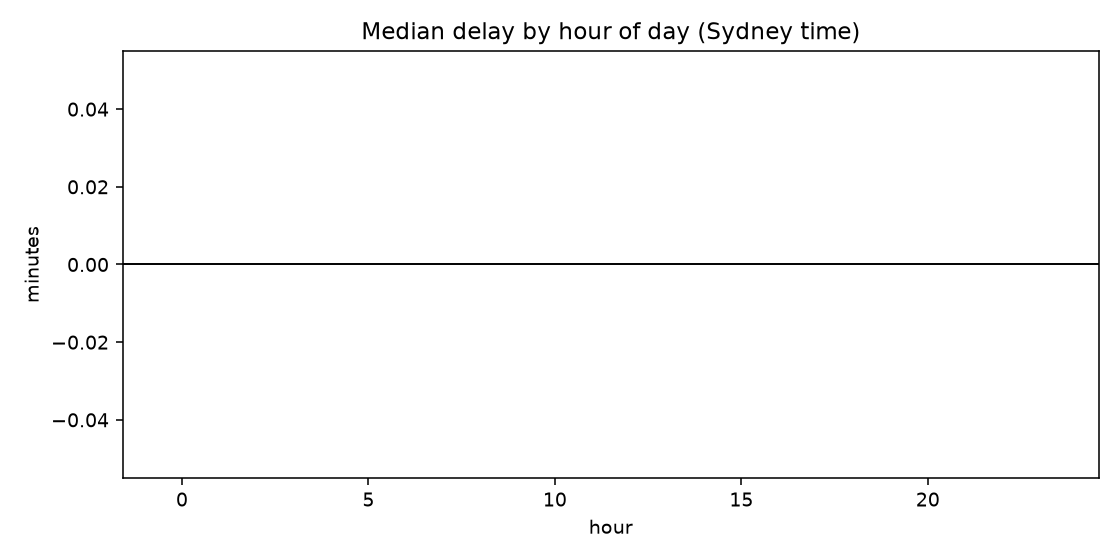
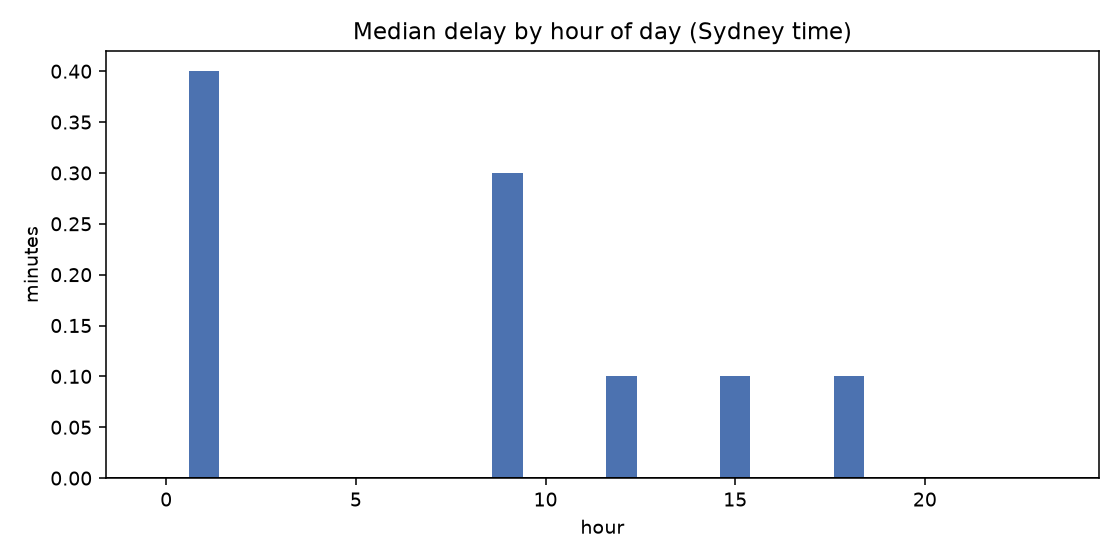
Report the Phase 0 finding by mode

diff --git a/collector/src/nextstop_collector/report.py b/collector/src/nextstop_collector/report.py
@@ -28,6 +28,12 @@ from .timeutil import SYDNEY  # noqa: E402
 
 LATE_THRESHOLD_SECONDS = 120
 
+# Charts only. A long thin tail of very late services widens the x-axis until everything
+# real is compressed into one bar. Excluded from the plots, counted in the text, never
+# silently dropped. The y-axis is logarithmic for the same reason: on a linear axis the
+# on-time bar is so tall that the late tail — the entire point — is invisible.
+CHART_LIMIT_MINUTES = 20
+
 
 def load_samples() -> pd.DataFrame:
     with session_scope() as session:
@@ -90,25 +96,63 @@ def latest_view(frame: pd.DataFrame) -> pd.DataFrame:
 
 def _plot_delay(frame: pd.DataFrame, path: Path) -> bool:
     usable = frame.dropna(subset=["api_delay_min"])
+    usable = usable[usable.api_delay_min.abs() <= CHART_LIMIT_MINUTES]
     if usable.empty:
         return False
 
     has_gap = usable.naive_gap_min.notna().any()
     fig, axes = plt.subplots(1, 2 if has_gap else 1, figsize=(11 if has_gap else 6, 4), squeeze=False)
 
-    axes[0][0].hist(usable.api_delay_min, bins=40, color="#4C72B0")
+    bins = range(-CHART_LIMIT_MINUTES, CHART_LIMIT_MINUTES + 1)
+    axes[0][0].hist(usable.api_delay_min, bins=bins, color="#4C72B0")
     axes[0][0].set_title("Realtime minus planned (Trip Planner)")
     axes[0][0].set_xlabel("minutes late")
-    axes[0][0].set_ylabel("departures")
+    axes[0][0].set_ylabel("departures (log scale)")
+    axes[0][0].set_yscale("log")
     axes[0][0].axvline(0, color="black", linewidth=1, linestyle="--")
 
     if has_gap:
-        axes[0][1].hist(usable.naive_gap_min.dropna(), bins=40, color="#DD8452")
+        axes[0][1].hist(usable.naive_gap_min.dropna(), bins=bins, color="#DD8452")
         axes[0][1].set_title("Realtime minus published timetable")
         axes[0][1].set_xlabel("minutes a naive app would be wrong by")
-        axes[0][1].set_ylabel("departures")
+        axes[0][1].set_ylabel("departures (log scale)")
+        axes[0][1].set_yscale("log")
         axes[0][1].axvline(0, color="black", linewidth=1, linestyle="--")
 
+    fig.tight_layout()
+    fig.savefig(path, dpi=140)
+    plt.close(fig)
+    return True
+
+
+def _plot_by_mode(frame: pd.DataFrame, path: Path) -> bool:
+    """The headline chart: how often each mode is late enough to make you miss it."""
+    usable = frame.dropna(subset=["api_delay_min"])
+    if usable.empty:
+        return False
+
+    rows = []
+    for mode, subset in usable.groupby("mode"):
+        if len(subset) < 50:
+            continue
+        late = (subset.api_delay_seconds > LATE_THRESHOLD_SECONDS).mean() * 100
+        rows.append((mode, late, len(subset)))
+    if not rows:
+        return False
+    rows.sort(key=lambda row: row[1])
+
+    fig, ax = plt.subplots(figsize=(8, 0.6 * len(rows) + 1.8))
+    labels = [f"{mode}\nn={count}" for mode, _, count in rows]
+    values = [late for _, late, _ in rows]
+    # Coloured by the same threshold the bars measure, so the chart reads without a legend.
+    colours = ["#55A868" if v < 10 else "#DD8452" if v < 40 else "#C44E52" for v in values]
+    ax.barh(labels, values, color=colours)
+    for index, value in enumerate(values):
+        ax.text(value + 1, index, f"{value:.0f}%", va="center", fontsize=9)
+    ax.set_xlim(0, max(values) * 1.18)
+    ax.set_xlabel("% of departures more than 2 minutes late")
+    ax.set_title("Where realtime data actually matters")
+    ax.spines[["top", "right"]].set_visible(False)
     fig.tight_layout()
     fig.savefig(path, dpi=140)
     plt.close(fig)
@@ -152,6 +196,35 @@ def _delay_table(frame: pd.DataFrame) -> str:
         lines.append(
             f"| {label} | {len(subset)} | {subset.api_delay_min.median():.1f} min | "
             f"{subset.api_delay_min.quantile(0.9):.1f} min | {late:.0f}% |"
+        )
+    return "\n".join(lines) + "\n"
+
+
+def _mode_table(frame: pd.DataFrame) -> str:
+    """Per-mode breakdown — the part that actually decides where realtime data is worth it.
+
+    Aggregated over every mode at once, the median delay is zero and the finding looks
+    like "the timetable is fine". Split by mode it is nothing of the sort.
+    """
+    usable = frame.dropna(subset=["api_delay_min"])
+    if usable.empty:
+        return ""
+
+    lines = [
+        "| Mode | Departures | Exactly on time | Late by >2 min | Median | 90th pct |",
+        "| --- | ---: | ---: | ---: | ---: | ---: |",
+    ]
+    ordered = usable.groupby("mode").api_delay_seconds.count().sort_values(ascending=False)
+    for mode in ordered.index:
+        subset = usable[usable["mode"] == mode]
+        if len(subset) < 50:
+            continue
+        lines.append(
+            f"| {mode} | {len(subset)} | "
+            f"{(subset.api_delay_seconds == 0).mean() * 100:.0f}% | "
+            f"{(subset.api_delay_seconds > LATE_THRESHOLD_SECONDS).mean() * 100:.0f}% | "
+            f"{subset.api_delay_min.median():.1f} min | "
+            f"{subset.api_delay_min.quantile(0.9):.1f} min |"
         )
     return "\n".join(lines) + "\n"
 
@@ -219,16 +292,36 @@ def build_report(output_dir: Path) -> Path:
         return path
 
     realtime_coverage = frame.estimated_departure.notna().mean() * 100
+    delayed = frame.dropna(subset=["api_delay_min"])
+    extreme = int(delayed.api_delay_min.abs().gt(CHART_LIMIT_MINUTES).sum())
+
     sections += [
         "## How late do services actually run?\n\n",
         f"Realtime coverage: **{realtime_coverage:.0f}%** of departures carried a live estimate.\n\n",
         _delay_table(frame),
+        "\n### By mode\n\n",
+        "Aggregated across all modes the median delay is zero, which reads as "
+        "\"the timetable is fine\". Split by mode it is not.\n\n",
+        _mode_table(frame),
+    ]
+
+    if _plot_by_mode(frame, output_dir / "late-by-mode.png"):
+        sections.append("\n![Late by mode](late-by-mode.png)\n")
+
+    sections += [
         "\n## What a timetable-only app would miss\n\n",
         _naive_gap_section(frame),
     ]
 
     if _plot_delay(frame, output_dir / "delay-distribution.png"):
         sections.append("\n![Delay distribution](delay-distribution.png)\n")
+        if extreme:
+            sections.append(
+                f"\n_{extreme} departures more than {CHART_LIMIT_MINUTES} minutes from "
+                "their planned time are excluded from the histograms above, where they "
+                "would flatten everything else into a single bar. They remain in every "
+                "figure in the tables._\n"
+            )
     if _plot_by_hour(frame, output_dir / "delay-by-hour.png"):
         sections.append("\n![Delay by hour](delay-by-hour.png)\n")
 

diff --git a/PROJECT_BRIEF.md b/PROJECT_BRIEF.md
@@ -42,7 +42,7 @@ These are the acceptance criteria. Track them explicitly.
 
 | #   | Requirement                                                                                 | Status      |
 | --- | ------------------------------------------------------------------------------------------- | ----------- |
-| R1  | Routing and departure times match Opal Travel, not Google's approximations                  | **Collecting since 2026-07-27**, unattended on the VPS. Report after ~3 weekdays |
+| R1  | Routing and departure times match Opal Travel, not Google's approximations                  | **Answered, mode-dependent** — see `docs/findings/`. 22,517 departures over 3 days: Metro 0% late >2 min, Train 8%, Bus 28%, Light Rail 63%. Realtime is decisive for surface transport and near-worthless for Metro |
 | R2  | A real map showing my route and current position, comparable to Google Maps                 | Not started |
 | R3  | Live Activity on the Lock Screen **and** Dynamic Island for an active journey               | Signed build on TestFlight (2026-07-31); all 5 presentations render in the simulator. **Still unproven on device** — the tunnel question needs a real commute |
 | R4  | "Get off at the next stop" alert that fires reliably with the phone locked and in my pocket | Design revised to two mechanisms — see §5.2. Depends on the R3 spike result |
@@ -540,11 +540,7 @@ Remaining, in order:
 1. **Ride the Metro with the spike running** (Stage C), once per mechanism including
 the control. Procedure in `ios/README.md`. Everything upstream of this is done: the
 signed build reached TestFlight on 2026-07-31.
-2. **After ~3 weekdays of collection**, pull `nextstop.db` and run `nextstop report`.
-The two things to look for: whether `naive_gap` diverges from zero at peak, and whether
-buses diverge more than Metro. Exclude gaps over an hour from the published charts, and
-say so — a single route-280 departure at 7,842s skews the mean on its own.
-3. **Capture ground truth.** The `observation` table is the arm that shows the realtime
+2. **Capture ground truth.** The `observation` table is the arm that shows the realtime
 estimate matched reality rather than merely differing from the timetable, and it stays
 empty until the two Shortcuts from `nextstop shortcut` get tapped on a real trip.
 

diff --git a/docs/findings/README.md b/docs/findings/README.md
@@ -6,27 +6,44 @@ Generated by `nextstop report` from stored samples only. Regenerate any time.
 
 ## Collection volume
 
-- Departure samples: **160**
-- Distinct departures observed: **157**
-- Service alert snapshots: **0**
+- Departure samples: **47200**
+- Distinct departures observed: **22517**
+- Service alert snapshots: **1334**
 - Ground-truth observations: **0**
 
 ## How late do services actually run?
 
-Realtime coverage: **68%** of departures carried a live estimate.
+Realtime coverage: **90%** of departures carried a live estimate.
 
 | Sample | Departures | Median | 90th pct | Late by >2 min |
 | --- | ---: | ---: | ---: | ---: |
-| All | 107 | 0.0 min | 0.9 min | 5% |
-| Off-peak baseline | 107 | 0.0 min | 0.9 min | 5% |
+| All | 20260 | 0.0 min | 4.3 min | 24% |
+| Commute window | 10251 | 0.0 min | 4.9 min | 25% |
+| Off-peak baseline | 10009 | 0.0 min | 3.8 min | 22% |
+
+### By mode
+
+Aggregated across all modes the median delay is zero, which reads as "the timetable is fine". Split by mode it is not.
+
+| Mode | Departures | Exactly on time | Late by >2 min | Median | 90th pct |
+| --- | ---: | ---: | ---: | ---: | ---: |
+| Bus | 12559 | 25% | 28% | 0.1 min | 5.2 min |
+| Train | 4109 | 79% | 8% | 0.0 min | 1.5 min |
+| Metro | 2094 | 64% | 0% | 0.0 min | 0.4 min |
+| Light Rail | 1405 | 15% | 63% | 2.5 min | 5.6 min |
+| School Bus | 93 | 48% | 37% | 0.0 min | 9.3 min |
+
+![Late by mode](late-by-mode.png)
 
 ## What a timetable-only app would miss
 
-- Static timetable match rate: **87%** of departures
+- Static timetable match rate: **91%** of departures
 - Median gap between realtime and published timetable: **0.0 min**
-- Departures a timetable-only app would show wrong by more than 2 minutes: **8%**
+- Departures a timetable-only app would show wrong by more than 2 minutes: **26%**
 - Trip Planner's own "planned" time disagreeing with the published timetable by more than 1 min: **0%**
 
 ![Delay distribution](delay-distribution.png)
+
+_119 departures more than 20 minutes from their planned time are excluded from the histograms above, where they would flatten everything else into a single bar. They remain in every figure in the tables._
 
 ![Delay by hour](delay-by-hour.png)
